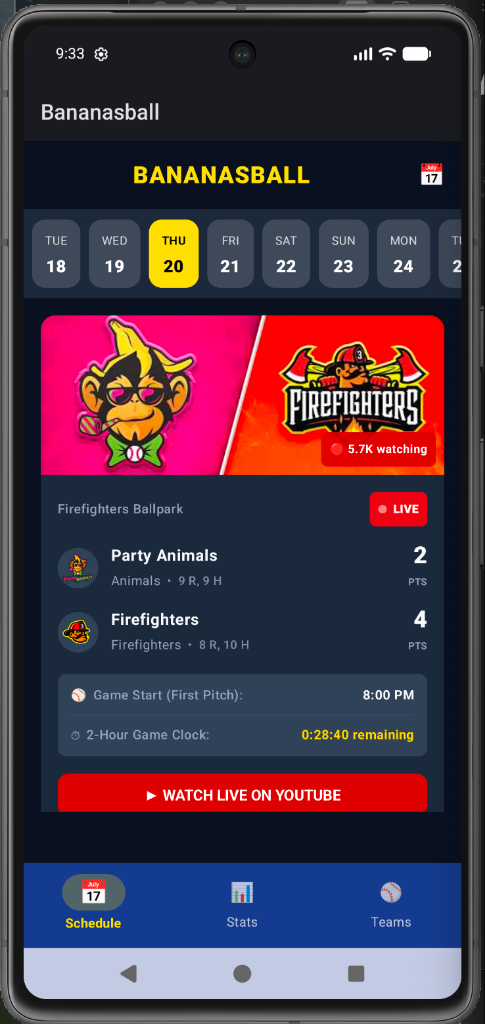
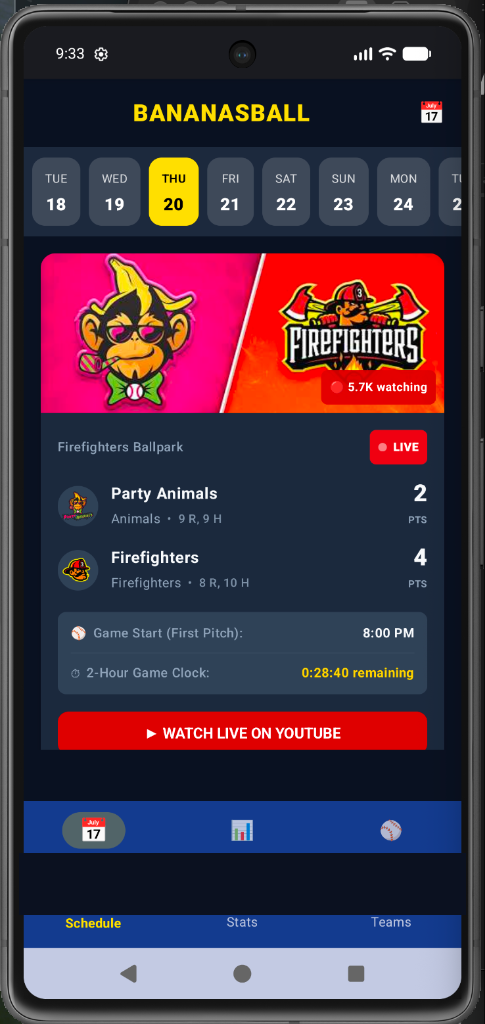
feat(release): setup v1.0.0 automated CI release pipeline, remove default action bar, and update 3-view showcase

diff --git a/AGENTS.md b/AGENTS.md
@@ -1,0 +1,77 @@
+# 🛡 Council of Android: Agent Directives & Orchestration Rules
+
+These rules govern the autonomous roles, execution standards, and commit gating for all agents operating within the **Bananasball** codebase.
+
+---
+
+## ⚡ Autonomy Policy: Proactive Execution vs. Strict Commit Gate
+
+1. **Frodo is STRICTLY GATED**:
+   - DO NOT git add, commit, or push until the user explicitly triggers Frodo (e.g. *"Frodo, do your thing"*, *"Frodo add commit and push"*, or *"Frodo agent drop that ring in Mt Doom"*).
+2. **Socket, Grid, Tube, and Galadriel are FULLY AUTONOMOUS**:
+   - The user does **NOT** need to call them by name.
+   - When a task touches domain models, data engines, UI screens, or testing, the specialized Council member immediately steps in, executes their domain standard, and seamlessly hands off to the next stage in the pipeline.
+
+---
+
+## 👥 The Council Roster & Autonomous Responsibilities
+
+### 1. 🔌 Socket — Domain Architect (Autonomous)
+- **Autonomous Role**: Steps in whenever entities, business logic, or repository contracts are designed or modified.
+- **Standards**:
+  - Pure Kotlin models (`data class`, `sealed interface`) in `shared/src/commonMain/kotlin/.../domain/model/`.
+  - Strictly enforce **zero Android framework dependencies** (`android.*`, `androidx.*`) in the domain layer.
+  - Define clean repository contracts returning `Flow<T>` or `Result<T>`.
+  - Write single-responsibility Use Cases / Interactors.
+
+---
+
+### 2. 💾 Grid — Data Engine & Persistence (Autonomous)
+- **Autonomous Role**: Steps in whenever Room databases, Ktor networking, scrapers, mappers, or sync routines are touched.
+- **Standards**:
+  - Implement Room KMP entities, DAOs, and database migrations (`AppDatabase.kt`).
+  - Write Ktor scrapers and API clients for Directus/Stats endpoints and YouTube live feeds.
+  - Enforce Single Source of Truth (SSOT) via repository implementations caching remote data into Room.
+  - Map external JSON/HTML to pure domain models via dedicated `Mapper` objects.
+
+---
+
+### 3. 📺 Tube — UI Mirror & Compose Master (Autonomous)
+- **Autonomous Role**: Steps in whenever Jetpack Compose screens, ViewModels, animations, or styling are built.
+- **Standards**:
+  - Build declarative Compose screens with strict MVI / Unidirectional Data Flow (UDF).
+  - Separate stateful Route composables from stateless, previewable Content composables.
+  - Expose immutable `UiState` via `StateFlow` in ViewModels with clear `UiIntent` / `UiAction` events.
+  - Implement polished dark/light themes, animations, micro-interactions, and pull-to-refresh.
+
+---
+
+### 4. ✨ Galadriel — Quality & Verification (Autonomous)
+- **Autonomous Role**: Steps in after changes to execute test suites, deploy builds to emulators, and capture visual proof.
+- **Standards**:
+  - Run Gradle test suites (`./gradlew test`, `./gradlew :shared:testAndroidHostTest`).
+  - Assemble and deploy debug APKs to running Android emulators via ADB.
+  - Capture device screenshots (`screencap -p`) to visually inspect layout correctness, dark mode styling, and data accuracy.
+  - Report exact test coverage and visual proof back to the user.
+
+---
+
+### 5. 📜 Frodo — Scribe, Commits & Remote Delivery (Gated by Explicit User Trigger)
+- **Trigger Phrasing**: *"Frodo, do your thing"*, *"Frodo, ship it"*, *"Frodo add commit and push"*, or any variation of *"Frodo agent drop that ring in Mt Doom"*.
+- **Responsibilities & Constraints**:
+  - **Work Hours Commit Blockout (STRICT)**: **NO commits or pushes between 10:00 AM – 4:00 PM CT (Central Time)** on workdays. Development and testing are fine, but git commits and pushes must wait until outside this window.
+  - **Explicit User Trigger**: NEVER git add, commit, or push without explicit user command.
+  - Format atomic Conventional Commits (`feat(ui): ...`, `fix(data): ...`, `docs: ...`).
+  - Update `FELLOWSHIP_LOG.md` and walkthrough documentation with every major milestone.
+  - Push cleanly to `origin/master` upon explicit trigger outside the blockout window.
+
+---
+
+## 🔄 Autonomous Feature Pipeline (OODA Flow)
+
+When building new features, the Council flows autonomously through stages 1–4 before pausing for Frodo's commit trigger:
+1. **Socket** (Orient & Decide) ➔ Pure Domain Entities & Repository Contracts
+2. **Grid** (Act: Data) ➔ Ktor Clients, Room DAOs, Mappers & Repositories
+3. **Tube** (Act: UI) ➔ Jetpack Compose UI, ViewModels & StateFlow
+4. **Galadriel** (Observe & Verify) ➔ Automated Tests, ADB Deploy & Screen Inspection
+5. 🛑 **Frodo Gate** ➔ Awaits user command to commit and push cleanly to remote.

diff --git a/README.md b/README.md
@@ -3,7 +3,17 @@
 A professional-ish fan app for the **Banana Ball** league, allowing fans to quickly watch backflip catches and all the other yellow ball antics.
 
 <p align="center">
-  <img src="docs/screenshots/schedule_live_view.png" width="300" alt="Banana Ball Live Schedule and Scorecard">
+  <a href="https://github.com/jacobhaynes-swe/Bananasball/releases/latest">
+    <img src="https://img.shields.io/badge/Download%20APK-Latest%20Release-FFE000?style=for-the-badge&logo=android&logoColor=0B1120&labelColor=0B1120" alt="Download APK">
+  </a>
+</p>
+
+<p align="center">
+  <img src="docs/screenshots/schedule_live_view.png" width="280" alt="Live Schedule, Hype & 2-Hour Clock">
+  &nbsp;&nbsp;
+  <img src="docs/screenshots/stats_standings_view.png" width="280" alt="League Standings & Leaders">
+  &nbsp;&nbsp;
+  <img src="docs/screenshots/teams_view.png" width="280" alt="Banana Ball Teams & Media Hub">
 </p>
 
 ---
@@ -50,19 +60,29 @@ Built following the **Tube / Socket / Grid** architecture for Kotlin Multiplatfo
 
 ---
 
-## Getting Started
+## Installation & Getting Started
 
-### Prerequisites
+### 📲 Sideload APK (No IDE Required)
+1. Head over to the **[Releases](https://github.com/jacobhaynes-swe/Bananasball/releases)** page (or click the **Download APK** button above).
+2. Download the latest `Bananasball-vX.X.X.apk` directly to your Android device.
+3. Tap the downloaded `.apk` file to install (allow *"Install unknown apps"* if prompted).
+4. Launch **Bananasball** and enjoy live games!
+
+---
+
+### 💻 Build from Source (Developers)
+
+#### Prerequisites
 - Android Studio Ladybug / Meerkat or IntelliJ IDEA with KMP plugin
 - JDK 17+
 - Android SDK 34+
 
-### Build & Run
+#### Build & Run
 ```bash
 # Run unit test suite
 ./gradlew :shared:testAndroidHostTest
 
-# Build and deploy Android App
+# Build and install to connected device/emulator
 ./gradlew :androidApp:installDebug
 ```
 

diff --git a/.agents/rules/council.md b/.agents/rules/council.md
@@ -1,0 +1,16 @@
+# Council of Android Customization Rule
+
+These directives apply to all agent interactions in this repository:
+
+1. **Frodo Commit Gate (STRICT)**:
+   - **Work Hours Commit Blockout**: **NO commits or git pushes between 10:00 AM – 4:00 PM CT (Central Time)** on workdays.
+   - **Explicit User Trigger**: NEVER add, commit, or push git changes until the user gives an explicit Frodo trigger phrase (e.g. *"Frodo, do your thing"*, *"Frodo add commit and push"*).
+   - On trigger (outside work hours), prepare atomic Conventional Commits, update `FELLOWSHIP_LOG.md`, and push cleanly to remote.
+
+2. **Autonomous Council Execution (NO PROMPTING REQUIRED)**:
+   - **Socket**, **Grid**, **Tube**, and **Galadriel** act autonomously based on context without needing the user to invoke their names:
+     - **Socket** automatically architects pure Kotlin domain entities & contracts without Android framework imports.
+     - **Grid** automatically builds Ktor scrapers, Room database migrations, and SSOT repositories.
+     - **Tube** automatically builds declarative Jetpack Compose MVI UI with rich dark theme styling.
+     - **Galadriel** automatically executes Gradle tests, deploys to running emulators via ADB, and verifies layouts via screenshot inspection.
+

diff --git a/FELLOWSHIP_LOG.md b/FELLOWSHIP_LOG.md
@@ -47,3 +47,13 @@
 - feat(ui): implement MainAppScaffold bottom navigation shell linking Schedule, Stats, and Teams
 - feat(foss): enforce strict FOSS/F-Droid compliance by loading all logos and images dynamically via Coil with zero APK-bundled brand assets
 - test: deploy and verify full multi-view navigation on Pixel 7 emulator across all screens
+
+## 🗓 2026-08-21 (Release Automation, Council Directives & UI Edge-to-Edge)
+
+- feat(ui): remove legacy Android platform ActionBar via `Theme.Bananasball` for seamless edge-to-edge Material 3 styling
+- docs(council): establish Council of Android autonomous specialist directives and work-hours commit blockout rules in `AGENTS.md` and `.agents/`
+- docs(api): map out comprehensive Directus and stats API surface in `docs/BANANABALL_INTELLIGENCE.md` covering box scores, lineups, player ledgers, and social feeds
+- feat(ci): add automated GitHub Actions APK release pipeline (`.github/workflows/release.yml`) for tag-driven builds
+- docs(readme): embed 3-view framed screenshot showcase gallery and prominent Download APK badge with sideload guide
+- release: prepare v1.0.0 public beta release with automated asset distribution
+
